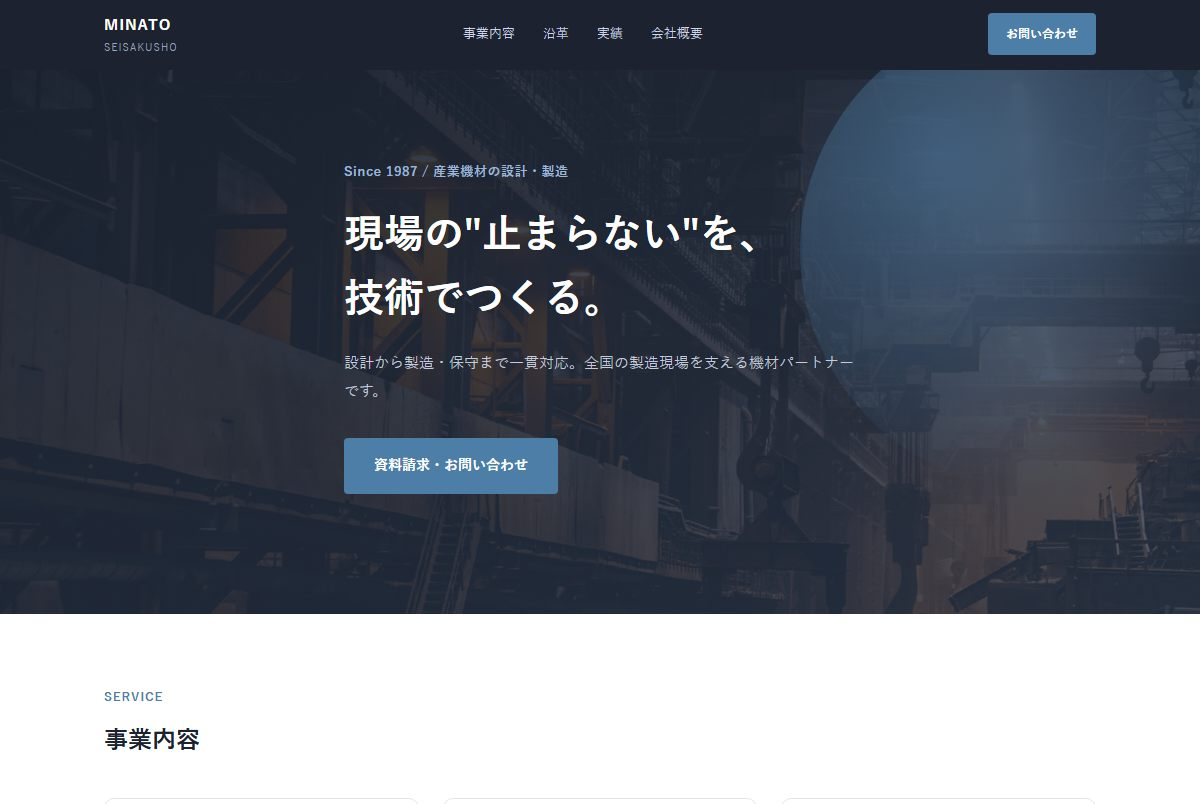
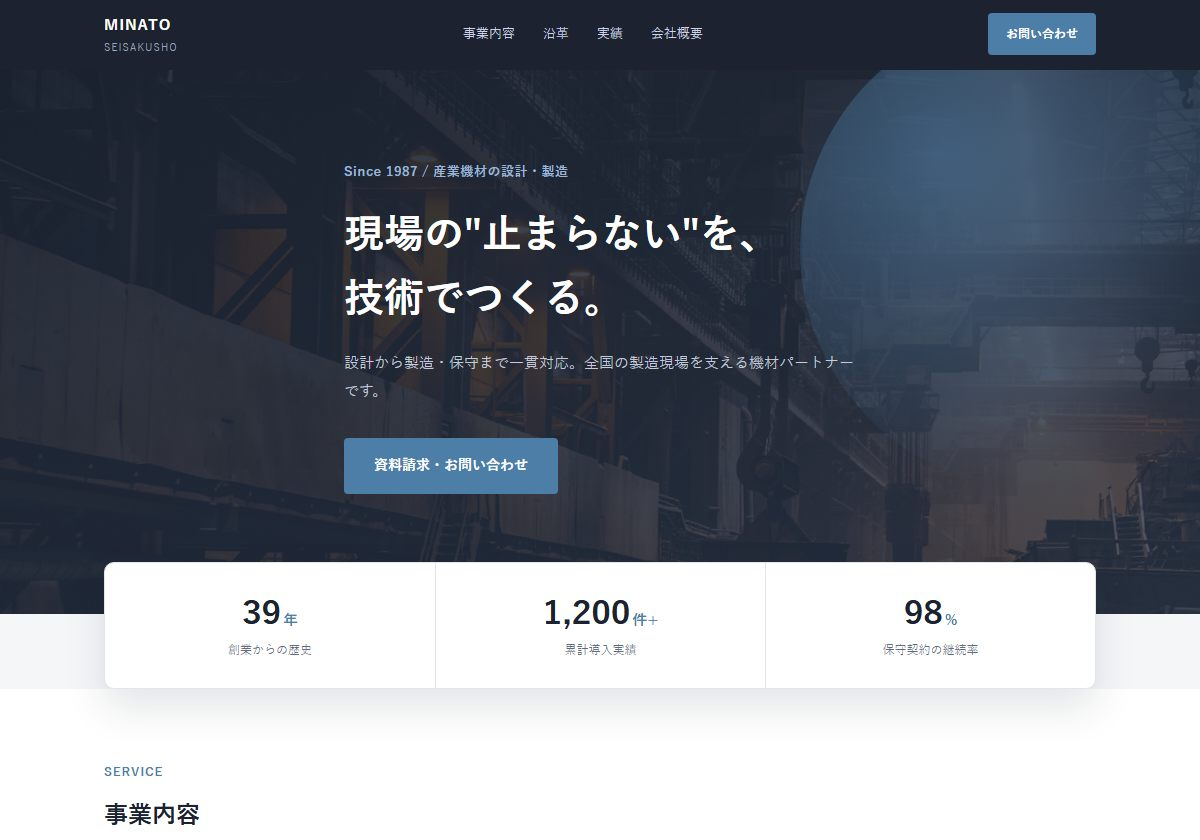
作業内容を保存

diff --git a/works/lp/corporate/style.css b/works/lp/corporate/style.css
@@ -145,6 +145,63 @@ table { border-collapse: collapse; width: 100%; }
   z-index: 1;
 }
 
+/* Stats */
+.c-stats {
+  position: relative;
+  z-index: 2;
+  margin-top: -52px;
+}
+.c-stats-grid {
+  display: grid;
+  grid-template-columns: repeat(3, 1fr);
+  background: var(--card);
+  border: 1px solid var(--border);
+  border-radius: var(--radius);
+  box-shadow: 0 18px 40px rgba(28, 34, 48, 0.12);
+  overflow: hidden;
+}
+.c-stat {
+  text-align: center;
+  padding: 30px 16px 26px;
+}
+.c-stat + .c-stat { border-left: 1px solid var(--border); }
+.c-stat-num {
+  font-size: 34px;
+  font-weight: 700;
+  color: var(--navy);
+  line-height: 1.2;
+  margin: 0;
+}
+.c-stat-num span {
+  font-size: 15px;
+  font-weight: 700;
+  color: var(--accent);
+  margin-left: 2px;
+}
+.c-stat-label {
+  font-size: 12px;
+  color: var(--ink-soft);
+  margin: 6px 0 0;
+}
+
+/* Reveal */
+.reveal {
+  opacity: 0;
+  transform: translateY(18px);
+  transition: opacity 0.7s ease, transform 0.7s ease;
+}
+.reveal.in-view { opacity: 1; transform: translateY(0); }
+.c-stat:nth-child(2).in-view,
+.c-service-card:nth-child(2).in-view,
+.c-work-card:nth-child(2).in-view { transition-delay: 0.12s; }
+.c-stat:nth-child(3).in-view,
+.c-service-card:nth-child(3).in-view,
+.c-work-card:nth-child(3).in-view { transition-delay: 0.24s; }
+
+@media (prefers-reduced-motion: reduce) {
+  .reveal { opacity: 1; transform: none; transition: none; }
+}
+
 /* Section common */
 .c-eyebrow {
   font-size: 12px;
@@ -260,7 +317,12 @@ section h2 {
   .sp-only { display: inline; }
   .c-nav { display: none; }
   .c-service-grid, .c-works-grid { grid-template-columns: 1fr; }
-  .c-hero { padding: 64px 0 88px; }
+  .c-hero { padding: 64px 0 96px; }
   .c-hero-visual { width: 300px; height: 300px; right: -100px; top: -40px; }
   .c-timeline li { gap: 14px; }
+  .c-stats { margin-top: -40px; }
+  .c-stats-grid { grid-template-columns: 1fr; }
+  .c-stat { padding: 20px 16px; }
+  .c-stat + .c-stat { border-left: 0; border-top: 1px solid var(--border); }
+  .c-stat-num { font-size: 28px; }
 }

diff --git a/works/lp/corporate/index.html b/works/lp/corporate/index.html
@@ -33,22 +33,41 @@
   <div class="c-hero-visual" aria-hidden="true"></div>
 </section>
 
+<section class="c-stats" aria-label="実績ハイライト">
+  <div class="c-wrap">
+    <div class="c-stats-grid">
+      <div class="c-stat reveal">
+        <p class="c-stat-num">39<span>年</span></p>
+        <p class="c-stat-label">創業からの歴史</p>
+      </div>
+      <div class="c-stat reveal">
+        <p class="c-stat-num">1,200<span>件+</span></p>
+        <p class="c-stat-label">累計導入実績</p>
+      </div>
+      <div class="c-stat reveal">
+        <p class="c-stat-num">98<span>%</span></p>
+        <p class="c-stat-label">保守契約の継続率</p>
+      </div>
+    </div>
+  </div>
+</section>
+
 <section id="service" class="c-service">
   <div class="c-wrap">
     <p class="c-eyebrow">SERVICE</p>
     <h2>事業内容</h2>
     <div class="c-service-grid">
-      <div class="c-service-card">
+      <div class="c-service-card reveal">
         <div class="c-service-num">01</div>
         <h3>設計・開発</h3>
         <p>お客様の生産ラインに合わせたオーダーメイド機材の設計を行います。</p>
       </div>
-      <div class="c-service-card">
+      <div class="c-service-card reveal">
         <div class="c-service-num">02</div>
         <h3>製造・組立</h3>
         <p>自社工場での一貫生産により、品質と納期の両立を実現します。</p>
       </div>
-      <div class="c-service-card">
+      <div class="c-service-card reveal">
         <div class="c-service-num">03</div>
         <h3>保守・メンテナンス</h3>
         <p>導入後も定期点検・修理対応により、稼働率の維持をサポートします。</p>
@@ -75,17 +94,17 @@
     <p class="c-eyebrow">WORKS</p>
     <h2>施工実績</h2>
     <div class="c-works-grid">
-      <div class="c-work-card">
+      <div class="c-work-card reveal">
         <div class="c-work-thumb"><img src="img/works-food.jpg" alt="食品工場の搬送ラインでの充填作業" loading="lazy"></div>
         <p class="c-work-tag">食品工場様</p>
         <p class="c-work-title">搬送ライン一式の設計・導入</p>
       </div>
-      <div class="c-work-card">
+      <div class="c-work-card reveal">
         <div class="c-work-thumb"><img src="img/works-auto.jpg" alt="自動車組立ラインのロボットアーム" loading="lazy"></div>
         <p class="c-work-tag">自動車部品工場様</p>
         <p class="c-work-title">検査工程の自動化機材を導入</p>
       </div>
-      <div class="c-work-card">
+      <div class="c-work-card reveal">
         <div class="c-work-thumb"><img src="img/works-warehouse.jpg" alt="物流倉庫のラック通路" loading="lazy"></div>
         <p class="c-work-tag">物流倉庫様</p>
         <p class="c-work-title">仕分け機材のメンテナンス契約</p>
@@ -120,5 +139,24 @@
   <p>&copy; 2026 MINATO SEISAKUSHO（架空企業・ポートフォリオ用サンプル）</p>
 </footer>
 
+<script>
+(function () {
+  var targets = document.querySelectorAll('.reveal');
+  if (!targets.length) return;
+  if (!('IntersectionObserver' in window) || window.matchMedia('(prefers-reduced-motion: reduce)').matches) {
+    targets.forEach(function (t) { t.classList.add('in-view'); });
+    return;
+  }
+  var io = new IntersectionObserver(function (entries) {
+    entries.forEach(function (entry) {
+      if (entry.isIntersecting) {
+        entry.target.classList.add('in-view');
+        io.unobserve(entry.target);
+      }
+    });
+  }, { threshold: 0.25 });
+  targets.forEach(function (t) { io.observe(t); });
+})();
+</script>
 </body>
 </html>

diff --git a/index.html b/index.html
@@ -4,6 +4,14 @@
 <meta charset="UTF-8">
 <meta name="viewport" content="width=device-width, initial-scale=1.0">
 <title>sorastudio Portfolio | Webデザイナー</title>
+<meta name="description" content="LP制作・Webデザインのポートフォリオ。Webデザイン×コピーライティング×データに基づく改善提案で、成果につながるLPをつくります。">
+<meta property="og:type" content="website">
+<meta property="og:title" content="sorastudio Portfolio | Webデザイナー">
+<meta property="og:description" content="Webデザイン×コピーライティング×データに基づく改善提案。成果につながるLPをつくります。">
+<meta property="og:url" content="https://sora-studio8.github.io/">
+<meta property="og:image" content="https://sora-studio8.github.io/img/ogp.jpg">
+<meta name="twitter:card" content="summary_large_image">
+<link rel="icon" type="image/svg+xml" href="img/favicon.svg">
 <link rel="stylesheet" href="css/style.css">
 </head>
 <body>
@@ -25,7 +33,7 @@
   <section class="hero">
     <div class="wrap hero-inner">
       <p class="hero-eyebrow">Web Designer / LP Creator</p>
-      <h1>「伝わる」だけで終わらない、<br>成果につながるLPをつくります。</h1>
+      <h1>「きれい」で終わらない、<br>成果につながるLPをつくります。</h1>
       <p class="hero-lead">
         Webデザイン × コピーライティング × データに基づく改善提案。<br>
         見た目の美しさだけでなく、コンバージョンを意識した設計を得意としています。

diff --git a/works/beauty-lp.html b/works/beauty-lp.html
@@ -4,6 +4,8 @@
 <meta charset="UTF-8">
 <meta name="viewport" content="width=device-width, initial-scale=1.0">
 <title>Case: 美容系LP（架空案件） | sorastudio Portfolio</title>
+<meta name="description" content="スキンケアブランド新商品LPのケーススタディ。構成・コピーライティング・デザイン・コーディングまで一貫制作し、公開後の検証プランまで設計しています。">
+<link rel="icon" type="image/svg+xml" href="../img/favicon.svg">
 <link rel="stylesheet" href="../css/style.css">
 <link rel="stylesheet" href="css/case.css">
 </head>

diff --git a/works/corporate-lp.html b/works/corporate-lp.html
@@ -4,6 +4,8 @@
 <meta charset="UTF-8">
 <meta name="viewport" content="width=device-width, initial-scale=1.0">
 <title>Case: コーポレートサイト（架空案件） | sorastudio Portfolio</title>
+<meta name="description" content="設備・機材メーカーのコーポレートサイト(1ページ)のケーススタディ。信頼感を軸にした構成・デザイン・コーディングと、公開後の検証プランまで設計しています。">
+<link rel="icon" type="image/svg+xml" href="../img/favicon.svg">
 <link rel="stylesheet" href="../css/style.css">
 <link rel="stylesheet" href="css/case.css">
 </head>